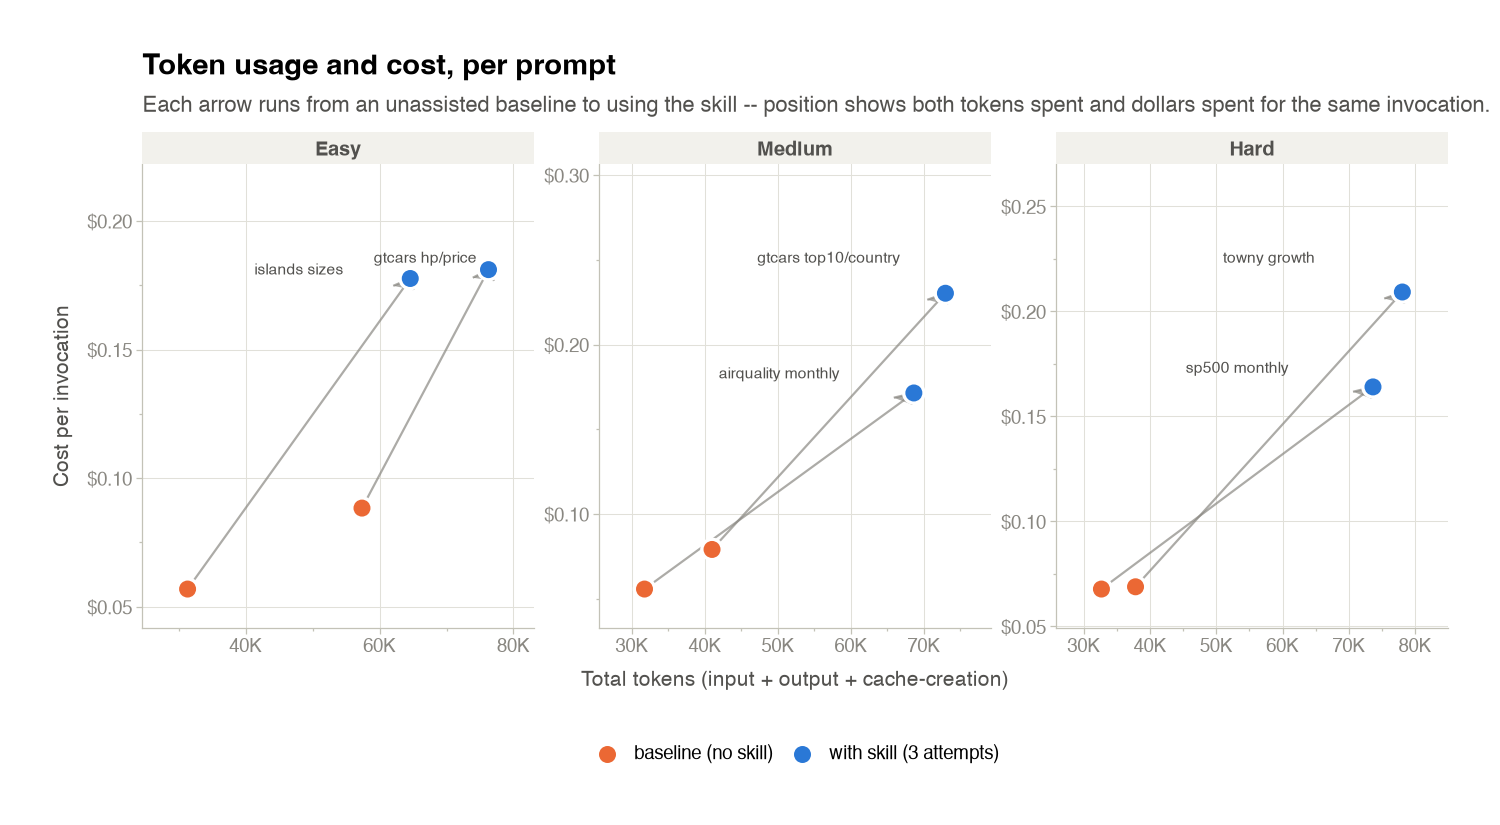
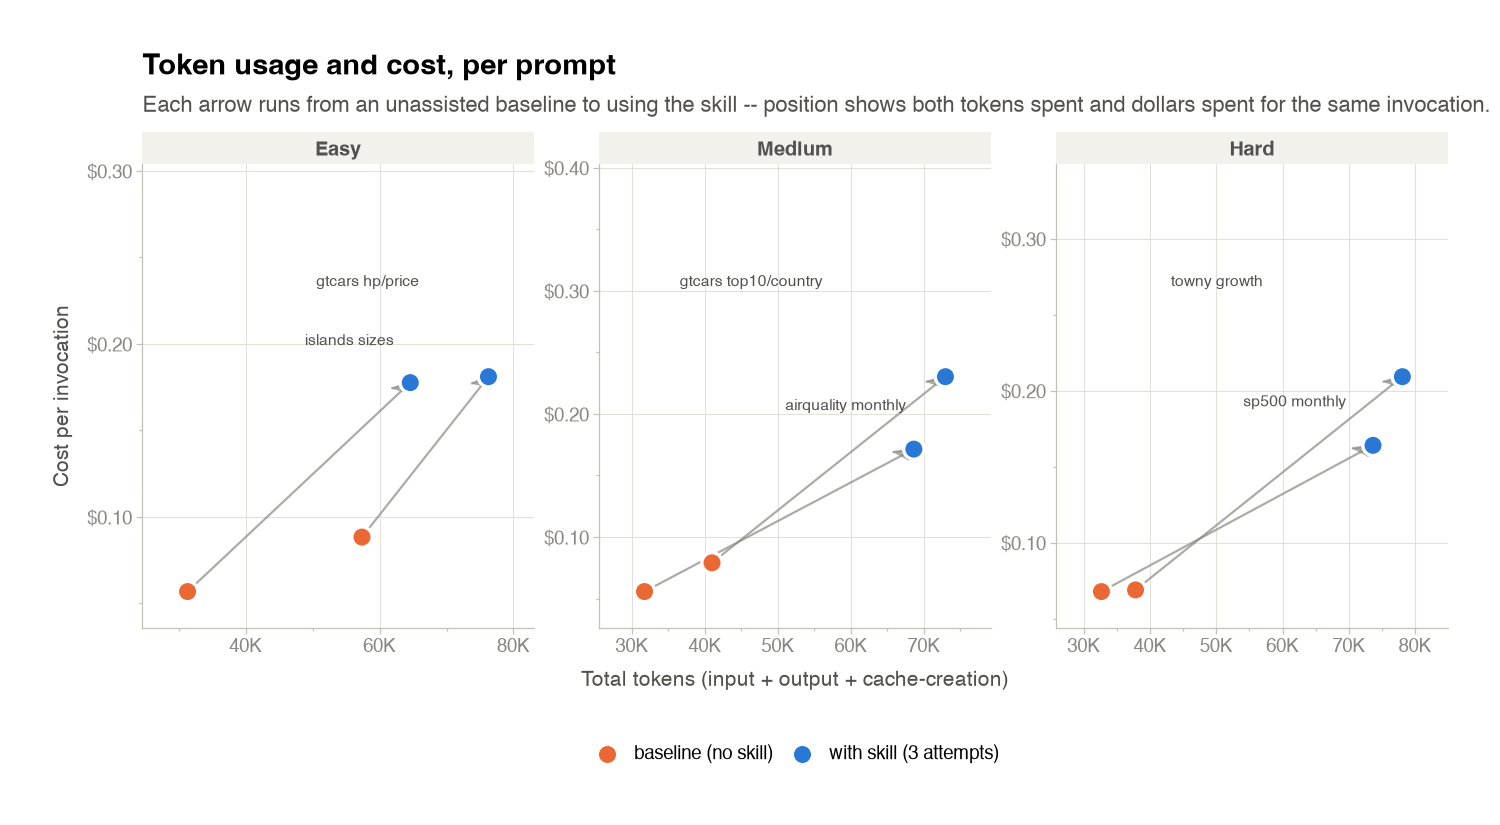
fix(eval-results): address round-1 review of PR #117
Opus-tier internal review (diff + description only) found that 2 of the 3
bugs I'd claimed to catch and fix before opening the PR weren't actually
fixed, plus 4 further real issues. Fixing all except one declined item:

- Label-collision fix was backwards: the stagger amplitude was scaled to
  the two segments' OWN top-value difference, which is smallest exactly
  when labels are about to collide. Reworked to scale off the whole
  facet's y-extent (every point in that panel, not just the two tops) with
  a bounded per-rank stagger, so near-tied labels always separate.
  Reproduced the reviewer's near-tied scenario -- confirmed fixed.
- Text-overflow fix didn't hold for a short segment sitting at a panel's
  data extreme (set by some other, wider segment sharing the facet): the
  midpoint anchor was "inside" the panel but the rendered text still ran
  past the edge. Added a per-row `ha` (left/right) computed from which
  side of the facet's own x-extent has more room, so labels always grow
  toward the panel's interior. Reproduced the reviewer's edge-label
  scenario -- confirmed fixed.
- Fixed tick formatters that degenerated to identical-looking ticks (e.g.
  every tick reading "$0.06" or "40K") on a narrow `scales="free"` panel --
  now adaptive to the actual gap between computed tick values, falling
  back to the original clean 0/2-decimal output on a normal-width range.
  Reproduced the reviewer's narrow-range scenario -- confirmed fixed.
[…]

diff --git a/eval-results/_plots.py b/eval-results/_plots.py
@@ -22,11 +22,11 @@ Two plots per skill:
                          instead of a bar height + a disconnected label.
                          Faceted by difficulty tier.
   comparator_score.png  box plot of comparator score across 3 skill repeats
-                         per prompt (the box's width already *is* the
+                         per prompt (the box's height already *is* the
                          consistency metric -- no separate chart needed for
                          it), with the baseline score as a point, a computed
                          mean-lift subtitle, and a caption on how to read the
-                         box width. Faceted by difficulty tier.
+                         box height. Faceted by difficulty tier.
 """
 
 from __future__ import annotations
@@ -87,6 +87,58 @@ matplotlib.rcParams["font.family"] = ["Avenir Next", "Helvetica Neue", "Arial", 
 
 DIFFICULTY_ORDER = ["easy", "medium", "hard"]
 DIFFICULTY_LABELS = {"easy": "Easy", "medium": "Medium", "hard": "Hard"}
+
+
+def _difficulty_categories(raw_values: pd.Series) -> list[str]:
+    """The known tiers in fixed order, followed by any *unrecognized* tier
+    (alphabetical) instead of silently dropping it. `DIFFICULTY_ORDER` is a
+    fixed constant here, separate from `_lib.PROMPTS`'s actual per-prompt
+    difficulty strings -- if a future prompt is added with a new or
+    typo'd tier, casting straight to a `Categorical` over the fixed 3
+    would turn it into NaN (a blank facet strip, dropped data) with no
+    error. Folding the unknown value in as its own facet, rather than
+    failing loudly, matches how the rest of this module treats a
+    partial/unexpected sweep (see `_layer_or_blank`)."""
+    present = set(raw_values.dropna().unique())
+    known = [d for d in DIFFICULTY_ORDER if d in present]
+    unknown = sorted(present - set(DIFFICULTY_ORDER))
+    return known + unknown
+
+
+def _difficulty_label(d: str) -> str:
+    return DIFFICULTY_LABELS.get(d, str(d).title())
+
+
+def _prompt_order(prompt_ids: list[str], prompt_labels: dict[str, str]) -> list[str]:
+    return [prompt_labels[p].replace("\n", " ") for p in prompt_ids]
+
+
+def _adaptive_decimals(vals: list[float], min_decimals: int, max_decimals: int = 4) -> int:
+    """Enough decimal places that adjacent TICKS stay visually distinct even
+    on a narrow `scales="free"` panel -- a fixed `.2f`/`.0f` degenerates to
+    identical-looking ticks (e.g. every tick reading "$0.06" or "40K")
+    whenever a panel's own range is small, which free scales make routine.
+    Based on the smallest gap between the actual computed tick values
+    (not the panel's overall span), so a normal wide range still gets the
+    same clean, minimal-decimals output as a fixed formatter would."""
+    uniq = sorted({v for v in vals if v is not None})
+    if len(uniq) < 2:
+        return min_decimals
+    gap = min(b - a for a, b in zip(uniq, uniq[1:]) if b > a)
+    if gap <= 0:
+        return min_decimals
+    needed = int(np.ceil(-np.log10(gap)))
+    return min(max_decimals, max(min_decimals, needed))
+
+
+def _token_tick_labels(vals):
+    decimals = _adaptive_decimals(vals, min_decimals=0, max_decimals=2)
+    return [f"{v:.{decimals}f}K" for v in vals]
+
+
+def _cost_tick_labels(vals):
+    decimals = _adaptive_decimals(vals, min_decimals=2, max_decimals=4)
+    return [f"${v:.{decimals}f}" for v in vals]
 
 
 def base_theme():
@@ -185,11 +237,11 @@ def plot_usage(
     if not rows:
         return False
     df = pd.DataFrame(rows)
-    df["difficulty"] = pd.Categorical(df["difficulty"], categories=DIFFICULTY_ORDER, ordered=True)
-    df["difficulty_label"] = df["difficulty"].map(DIFFICULTY_LABELS)
-    df["difficulty_label"] = pd.Categorical(
-        df["difficulty_label"], categories=[DIFFICULTY_LABELS[d] for d in DIFFICULTY_ORDER], ordered=True
-    )
+    diff_categories = _difficulty_categories(df["difficulty"])
+    diff_label_categories = [_difficulty_label(d) for d in diff_categories]
+    df["difficulty"] = pd.Categorical(df["difficulty"], categories=diff_categories, ordered=True)
+    df["difficulty_label"] = df["difficulty"].map(_difficulty_label)
+    df["difficulty_label"] = pd.Categorical(df["difficulty_label"], categories=diff_label_categories, ordered=True)
 
     # Segments only where a prompt has both a skill point and a baseline
     # point to connect -- an incomplete pair just renders as a lone point.
@@ -213,25 +265,46 @@ def plot_usage(
         # progression, since this layer's data no longer carries an order
         # for plotnine's panel layout to inherit.
         seg_df["difficulty_label"] = pd.Categorical(
-            seg_df["difficulty_label"], categories=[DIFFICULTY_LABELS[d] for d in DIFFICULTY_ORDER], ordered=True
+            seg_df["difficulty_label"], categories=diff_label_categories, ordered=True
         )
-        # Label at each segment's own midpoint (always inside its panel's
-        # data range by construction) rather than nudged out from the
-        # skill point -- which, being the higher-token point, usually sits
-        # near a panel's right edge and would push long prompt names past
-        # it. The vertical offset is scaled to the whole FACET's y-range
-        # (not just this one segment's span) and staggered by each
-        # segment's rank within its facet, so two prompts whose points
-        # happen to sit close together still get visibly separated labels
-        # instead of stacking on top of each other.
         seg_df["label_x"] = (seg_df["x0"] + seg_df["x1"]) / 2
         seg_df["_top"] = seg_df[["y0", "y1"]].max(axis=1)
-        facet_range = seg_df.groupby("difficulty_label", observed=True)["_top"].transform(
-            lambda s: (s.max() - s.min()) if s.max() > s.min() else s.max() * 0.2
+
+        # Vertical stagger scaled to the FACET's full y-extent (every
+        # baseline/skill point in that panel, not just this segment's own
+        # span) -- staggering by *this segment's* span collapses to ~0
+        # exactly when two segments' tops are close together, which is
+        # precisely the collision case a stagger exists to prevent.
+        y_bounds = (
+            pd.concat([seg_df[["difficulty_label", "y0"]].rename(columns={"y0": "y"}),
+                       seg_df[["difficulty_label", "y1"]].rename(columns={"y1": "y"})])
+            .groupby("difficulty_label", observed=True)["y"]
+            .agg(y_min="min", y_max="max")
         )
+        y_bounds["y_span"] = (y_bounds["y_max"] - y_bounds["y_min"]).clip(lower=1e-9)
+        seg_df = seg_df.merge(y_bounds[["y_span"]], left_on="difficulty_label", right_index=True)
         rank = seg_df.groupby("difficulty_label", observed=True)["_top"].rank(method="first") - 1
-        seg_df["label_y"] = seg_df["_top"] + facet_range * (0.10 + rank * 0.16)
-        seg_df = seg_df.drop(columns="_top")
+        seg_df["label_y"] = seg_df["_top"] + seg_df["y_span"] * (0.16 + rank * 0.24)
+
+        # Horizontal anchor: grow the label toward whichever side of the
+        # facet's own x-extent has more room, rather than always growing
+        # from the segment's midpoint outward -- a short segment sitting
+        # near a panel's data extreme (set by some *other*, wider segment
+        # sharing the facet) would otherwise still run its label past the
+        # panel edge even though its anchor point is technically "inside".
+        x_bounds = (
+            pd.concat([seg_df[["difficulty_label", "x0"]].rename(columns={"x0": "x"}),
+                       seg_df[["difficulty_label", "x1"]].rename(columns={"x1": "x"})])
+            .groupby("difficulty_label", observed=True)["x"]
+            .agg(x_min="min", x_max="max")
+        )
+        x_bounds["x_mid"] = (x_bounds["x_min"] + x_bounds["x_max"]) / 2
+        x_bounds["x_span"] = (x_bounds["x_max"] - x_bounds["x_min"]).clip(lower=1e-9)
+        seg_df = seg_df.merge(x_bounds[["x_mid", "x_span"]], left_on="difficulty_label", right_index=True)
+        seg_df["ha"] = np.where(seg_df["label_x"] >= seg_df["x_mid"], "right", "left")
+        edge_sign = np.where(seg_df["ha"] == "right", -1, 1)
+        seg_df["label_x"] = seg_df["label_x"] + edge_sign * seg_df["x_span"] * 0.02
+        seg_df = seg_df.drop(columns=["_top", "y_span", "x_mid", "x_span"])
 
     plot = (
         ggplot(df, aes(x="tokens_k", y="cost"))
@@ -255,7 +328,7 @@ def plot_usage(
             seg_df,
             geom_text(
                 data=seg_df,
-                mapping=aes(x="label_x", y="label_y", label="prompt"),
+                mapping=aes(x="label_x", y="label_y", label="prompt", ha="ha"),
                 color=INK_SECONDARY,
                 size=7.5,
                 va="bottom",
@@ -263,8 +336,8 @@ def plot_usage(
             ),
         )
         + scale_color_manual(values={SKILL_LABEL: SKILL_COLOR, BASELINE_LABEL: BASELINE_COLOR})
-        + scale_x_continuous(labels=lambda vals: [f"{v:.0f}K" for v in vals], expand=(0.15, 0))
-        + scale_y_continuous(labels=lambda vals: [f"${v:.2f}" for v in vals], expand=(0.12, 0, 0.32, 0))
+        + scale_x_continuous(labels=_token_tick_labels, expand=(0.15, 0))
+        + scale_y_continuous(labels=_cost_tick_labels, expand=(0.12, 0, 0.42, 0))
         + facet_wrap("~difficulty_label", nrow=1, scales="free")
         + labs(
             title="Token usage and cost, per prompt",
@@ -283,10 +356,10 @@ def plot_comparator_score(
     metrics: dict, prompt_ids: list[str], prompt_labels: dict[str, str], out_path: Path
 ) -> bool:
     """Box plot of comparator total-score % across the 3 skill repeats per
-    prompt (box width already IS the consistency metric -- no separate
+    prompt (box HEIGHT already IS the consistency metric -- no separate
     chart needed), with the baseline score as a point. Faceted by difficulty
     tier; subtitle states the computed mean lift over baseline; caption
-    explains how to read the box width.
+    explains how to read the box height.
 
     Returns whether a chart was actually written."""
     box_rows = []
@@ -314,25 +387,43 @@ def plot_comparator_score(
         return False
     box_df = pd.DataFrame(box_rows)
     box_df["group"] = SKILL_LABEL
-    box_df["difficulty"] = pd.Categorical(box_df["difficulty"], categories=DIFFICULTY_ORDER, ordered=True)
-    box_df["difficulty_label"] = box_df["difficulty"].map(DIFFICULTY_LABELS)
+    diff_categories = _difficulty_categories(box_df["difficulty"])
+    diff_label_categories = [_difficulty_label(d) for d in diff_categories]
+    box_df["difficulty"] = pd.Categorical(box_df["difficulty"], categories=diff_categories, ordered=True)
+    box_df["difficulty_label"] = box_df["difficulty"].map(_difficulty_label)
     box_df["difficulty_label"] = pd.Categorical(
-        box_df["difficulty_label"], categories=[DIFFICULTY_LABELS[d] for d in DIFFICULTY_ORDER], ordered=True
+        box_df["difficulty_label"], categories=diff_label_categories, ordered=True
     )
     point_df = pd.DataFrame(point_rows)
     if not point_df.empty:
-        point_df["difficulty"] = pd.Categorical(point_df["difficulty"], categories=DIFFICULTY_ORDER, ordered=True)
-        point_df["difficulty_label"] = point_df["difficulty"].map(DIFFICULTY_LABELS)
+        point_df["difficulty"] = pd.Categorical(point_df["difficulty"], categories=diff_categories, ordered=True)
+        point_df["difficulty_label"] = point_df["difficulty"].map(_difficulty_label)
         point_df["difficulty_label"] = pd.Categorical(
-            point_df["difficulty_label"], categories=[DIFFICULTY_LABELS[d] for d in DIFFICULTY_ORDER], ordered=True
+            point_df["difficulty_label"], categories=diff_label_categories, ordered=True
         )
+
+    # Preserve the prompt-list order (matching every SUMMARY.md table) on
+    # the x-axis within each facet -- plain string columns would otherwise
+    # sort alphabetically, which happens to match today's 6 prompt names
+    # but would silently desync from `_lib.PROMPTS`'s order the moment a
+    # prompt is renamed or a new one added.
+    order = _prompt_order(prompt_ids, prompt_labels)
+    box_df["prompt"] = pd.Categorical(box_df["prompt"], categories=order, ordered=True)
+    if not point_df.empty:
+        point_df["prompt"] = pd.Categorical(point_df["prompt"], categories=order, ordered=True)
 
     if lifts:
         mean_lift = float(np.mean(lifts))
         direction = "above" if mean_lift >= 0 else "below"
+        point_word = "point" if round(abs(mean_lift)) == 1 else "points"
+        coverage = (
+            f"across all {len(prompt_ids)} prompts"
+            if len(lifts) == len(prompt_ids)
+            else f"across the {len(lifts)} of {len(prompt_ids)} prompts with both a baseline and 3 attempts"
+        )
         lift_line = (
-            f"Across {len(lifts)} prompts, the skill's mean score is {abs(mean_lift):.0f} points "
-            f"{direction} the unassisted baseline, on average."
+            f"The skill's mean score is {abs(mean_lift):.0f} {point_word} {direction} the unassisted "
+            f"baseline, on average {coverage}."
         )
     else:
         lift_line = "Comparator score per prompt, with the skill vs. without."
@@ -353,7 +444,7 @@ def plot_comparator_score(
             title="Comparator score: repeated attempts with the skill vs. without",
             subtitle=lift_line,
             caption="Box = spread of the skill's score across 3 attempts on the same prompt -- "
-            "narrower is more consistent. Dot = a single unassisted baseline attempt.",
+            "shorter is more consistent. Dot = a single unassisted baseline attempt.",
             x="",
             y="Comparator total score (%)",
         )
